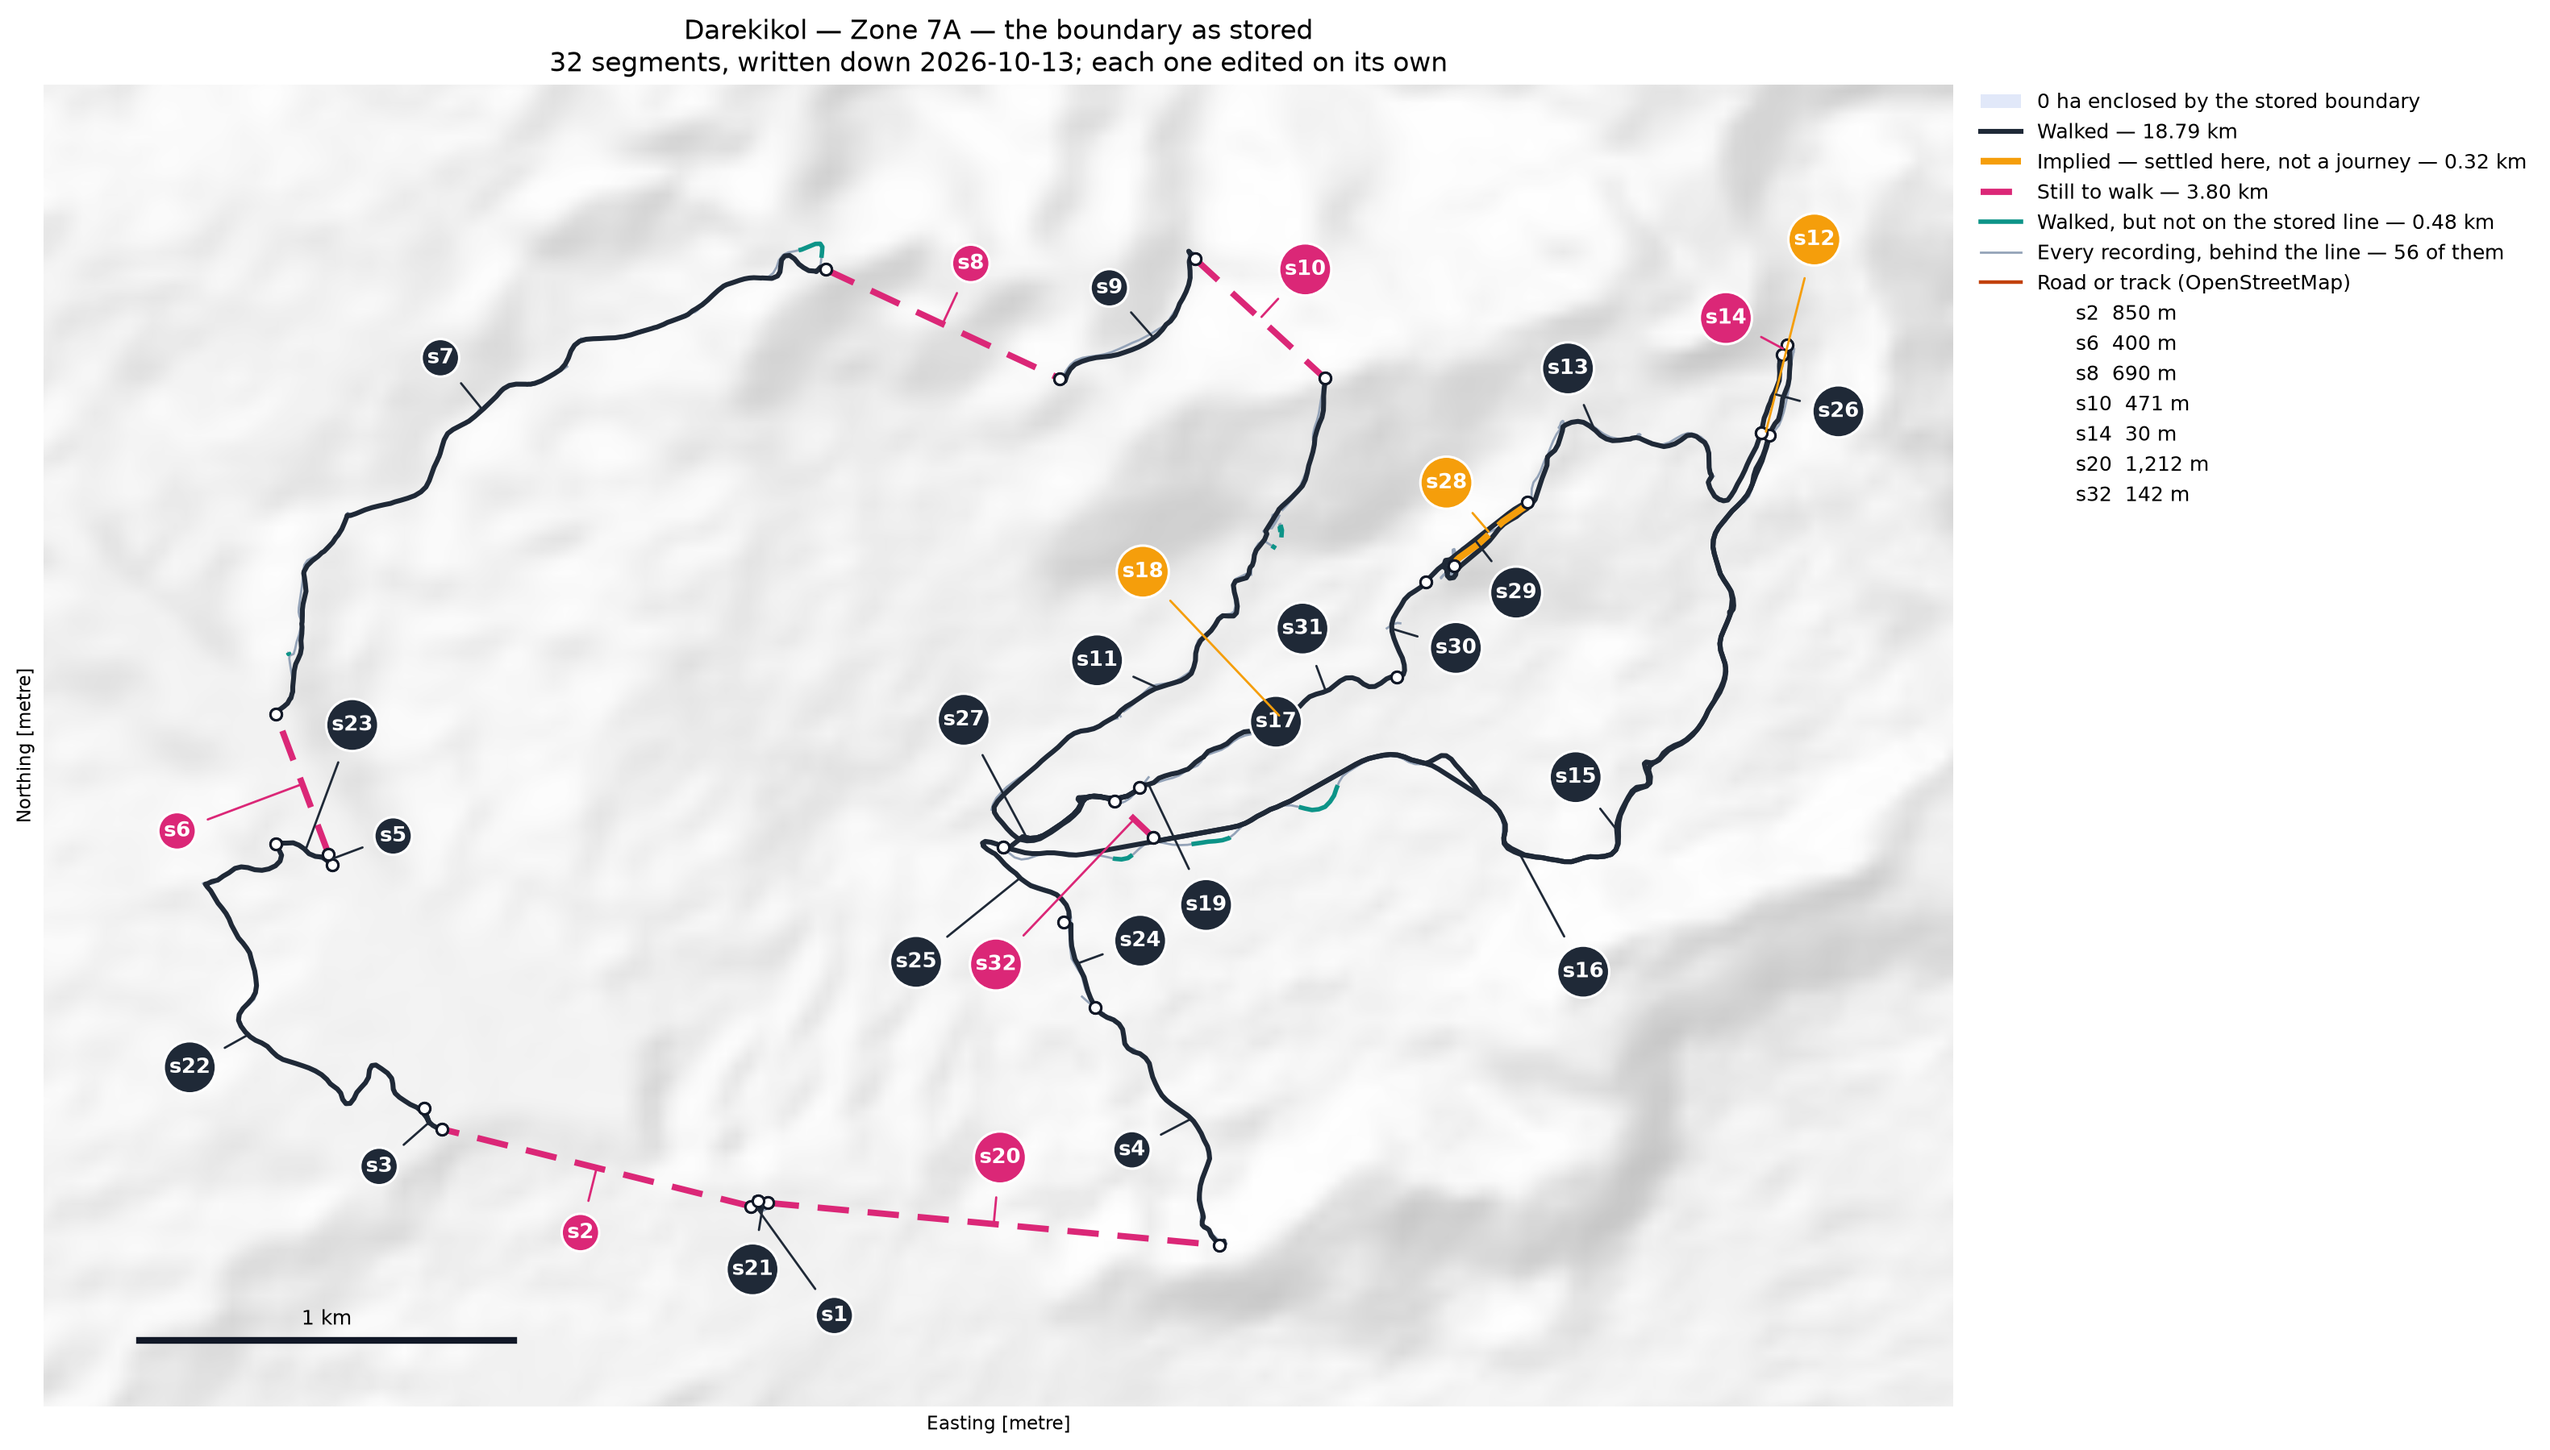
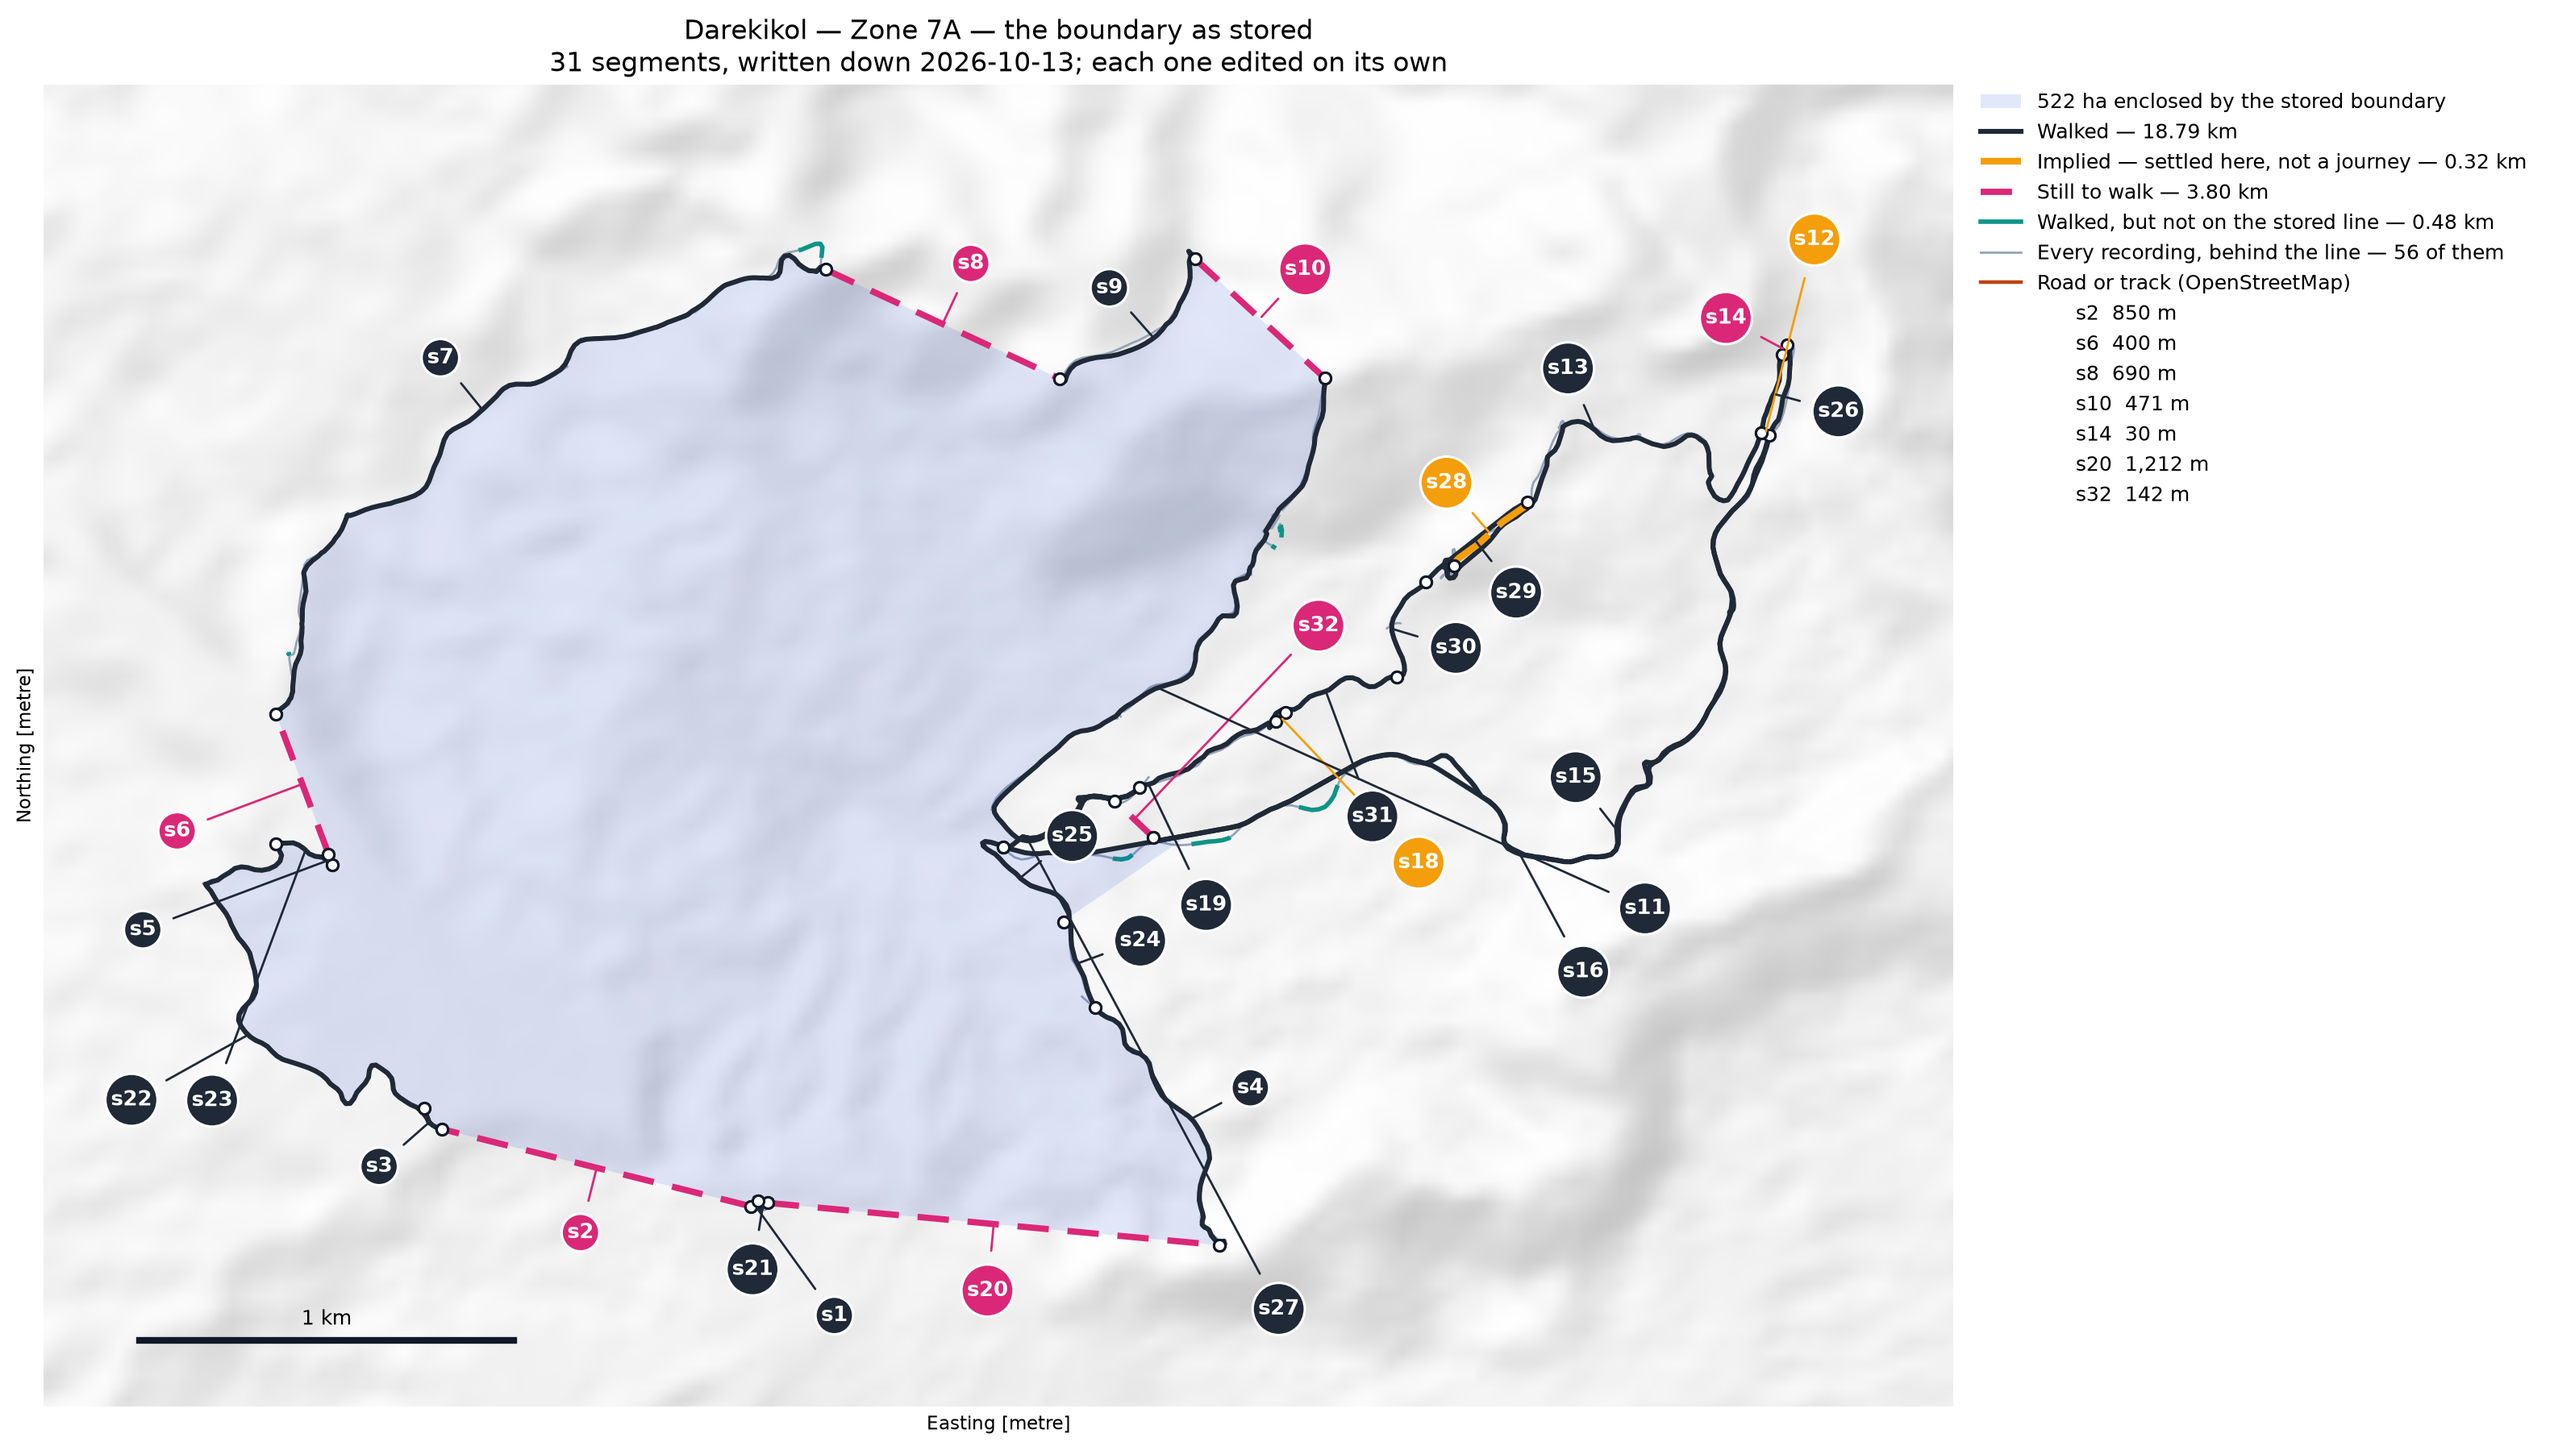
Darekikol closes at 522.1 ha: the polygon builder now handles two rings
The reviewer read two polygons off the map before the arithmetic did.
Darekikol goes out along the south side of its eastern lobe and back
along the north, meeting itself at the neck — a figure of eight, two
rings sharing a node. Chaining the segments greedily from one end
cannot follow that and returned 0.0 ha. ring_geometry now finds the
cycles properly and makes a ring of each.

s17 had been collapsed to zero length by an earlier snap and is
removed.

31 segments, 18.79 km walked, 3.80 km to walk, 0.32 km implied.
Checked against the other stored boundaries: Ambunkol 662.4, Ginangi
648.7, Binunkol 1,026.0, Wohukol 513.1, Deari 995.5 — all unchanged.

Claude-Session: https://claude.ai/code/session_01K6X75MkuiGQ9rmgDZx45vk

diff --git a/scripts/boundary.py b/scripts/boundary.py
@@ -211,48 +211,61 @@ def ring_geometry(book: dict, tolerance: float = 1.0):
     """What the stored segments enclose.
 
     The segments are chained end to end rather than handed to
-    polygonize. Two segments that meet within a metre are the same join
-    as far as the line is concerned, but polygonize wants the coordinate
-    to be identical, and a ring that is closed everywhere to within a
-    metre came back as forty-six slivers and 1.4 ha.
+    polygonize: two that meet within a metre are the same join as far
+    as the line is concerned, but polygonize wants the coordinate to be
+    identical.
+
+    A boundary is not always one loop. Darekikol goes out along the
+    south side of an eastern lobe and back along its north, meeting
+    itself at the neck, which is a figure of eight — two rings sharing
+    a node, and the reviewer read it off the map as two polygons before
+    the arithmetic did. Walking the segments greedily from one end
+    cannot follow that, so the cycles are found properly and each one
+    becomes a ring.
     """
+    import networkx as nx
     from shapely.geometry import Polygon
 
-    lines = [shapely_wkt.loads(s["wkt"]) for s in book["segments"]]
-    lines = [line for line in lines if line.length > 0]
-    if not lines:
+    pieces = [(s["id"], shapely_wkt.loads(s["wkt"])) for s in book["segments"]]
+    pieces = [(sid, line) for sid, line in pieces if line.length > 0]
+    if not pieces:
         return None
-    rings, spare = [], list(lines)
-    while spare:
-        run = list(spare.pop(0).coords)
-        moved = True
-        while moved and spare:
-            moved = False
-            tail = Point(run[-1][:2])
-            head = Point(run[0][:2])
-            for index, line in enumerate(spare):
-                a = Point(line.coords[0][:2])
-                b = Point(line.coords[-1][:2])
-                if tail.distance(a) <= tolerance:
-                    run += list(line.coords)[1:]
-                elif tail.distance(b) <= tolerance:
-                    run += list(line.coords)[::-1][1:]
-                elif head.distance(b) <= tolerance:
-                    run = list(line.coords)[:-1] + run
-                elif head.distance(a) <= tolerance:
-                    run = list(line.coords)[::-1][:-1] + run
-                else:
-                    continue
-                spare.pop(index)
-                moved = True
+
+    places: list = []
+
+    def node(point):
+        for index, where in enumerate(places):
+            if Point(where).distance(Point(point)) <= tolerance * 10:
+                return index
+        places.append(point)
+        return len(places) - 1
+
+    graph = nx.MultiGraph()
+    for sid, line in pieces:
+        graph.add_edge(node(line.coords[0][:2]), node(line.coords[-1][:2]),
+                       key=sid, line=line)
+
+    rings = []
+    for cycle in nx.cycle_basis(nx.Graph(graph)):
+        run: list = []
+        ok = True
+        for a, b in zip(cycle, cycle[1:] + cycle[:1]):
+            if not graph.has_edge(a, b):
+                ok = False
                 break
-        if len(run) > 3 and Point(run[0][:2]).distance(
-                Point(run[-1][:2])) <= tolerance:
-            shape = Polygon([c[:2] for c in run])
-            if not shape.is_valid:
-                shape = shape.buffer(0)
-            if shape.area > 0:
-                rings.append(shape)
+            line = list(graph[a][b].values())[0]["line"]
+            coords = [c[:2] for c in line.coords]
+            if run and Point(run[-1]).distance(Point(coords[0])) > \
+                    Point(run[-1]).distance(Point(coords[-1])):
+                coords = coords[::-1]
+            run += coords if not run else coords[1:]
+        if not ok or len(run) < 4:
+            continue
+        shape = Polygon(run)
+        if not shape.is_valid:
+            shape = shape.buffer(0)
+        if shape.area > 0:
+            rings.append(shape)
     if not rings:
         return None
     return unary_union(rings)
